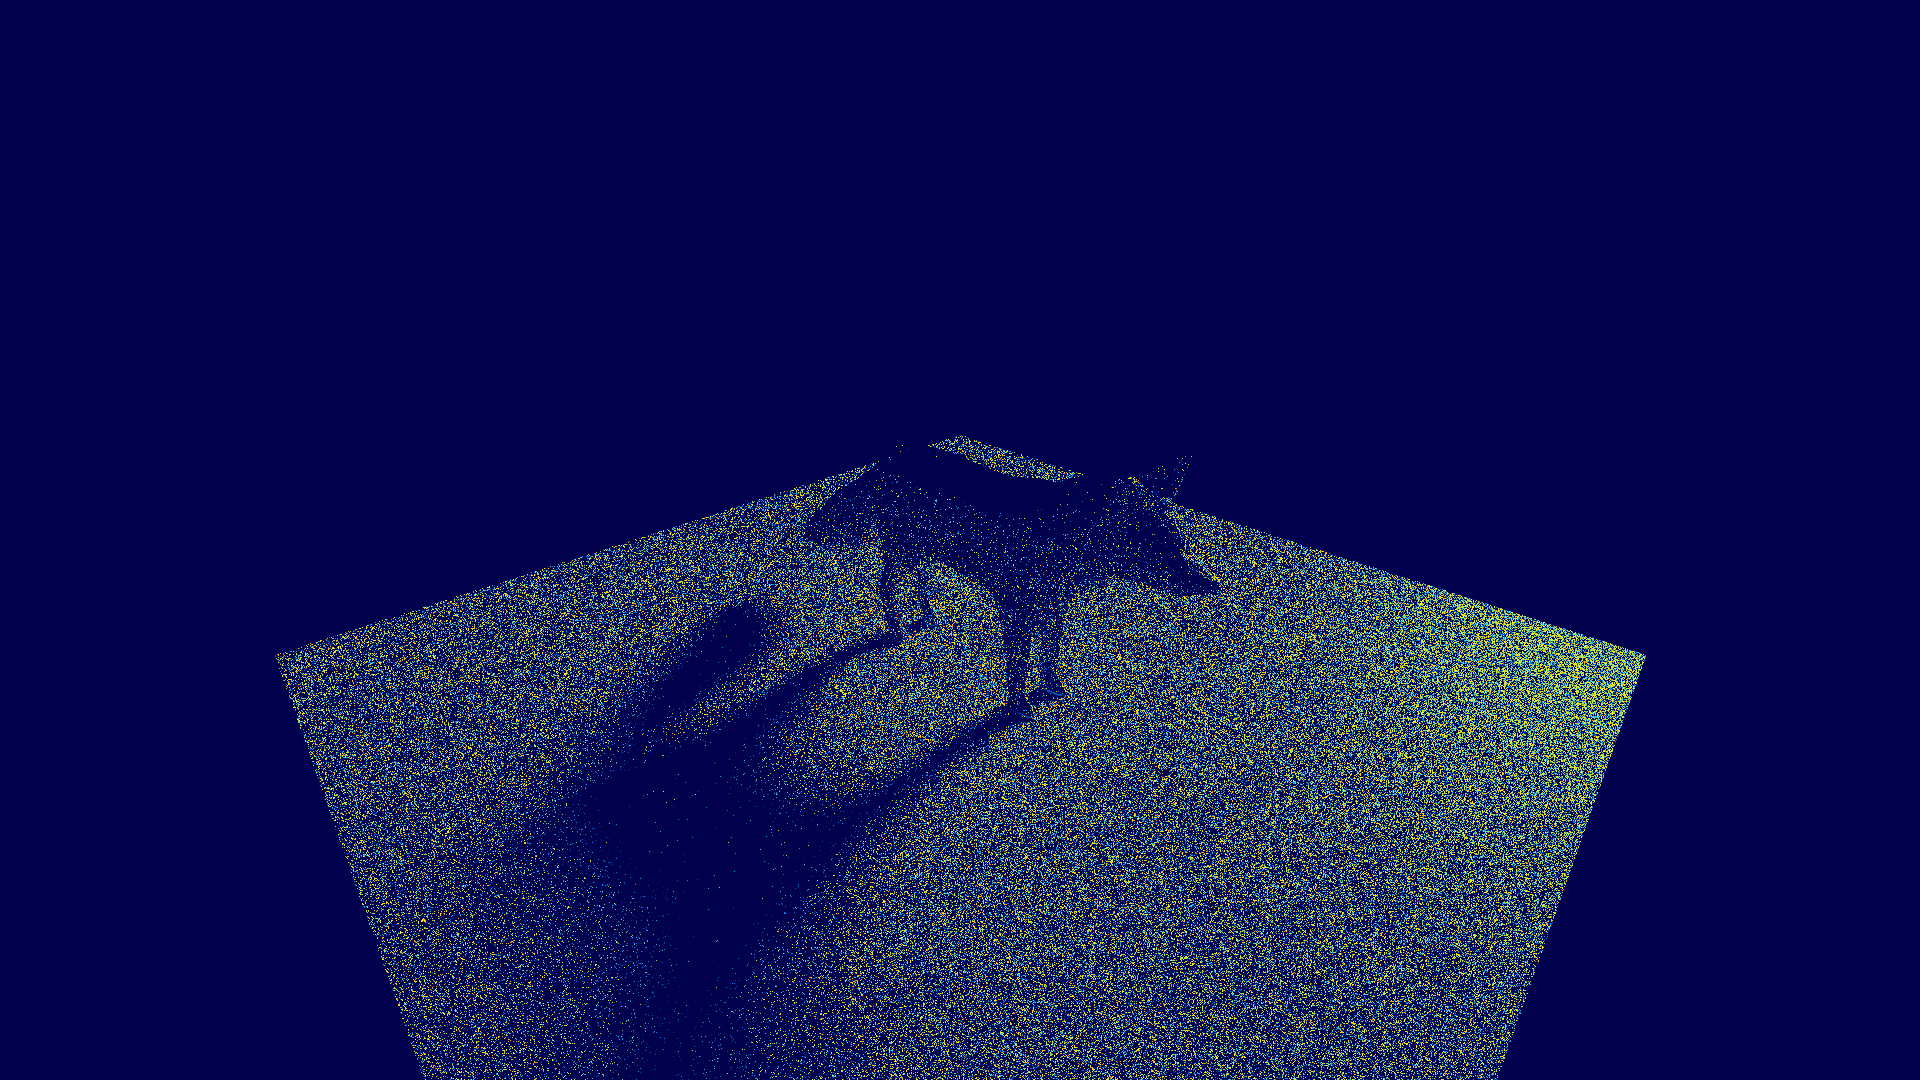
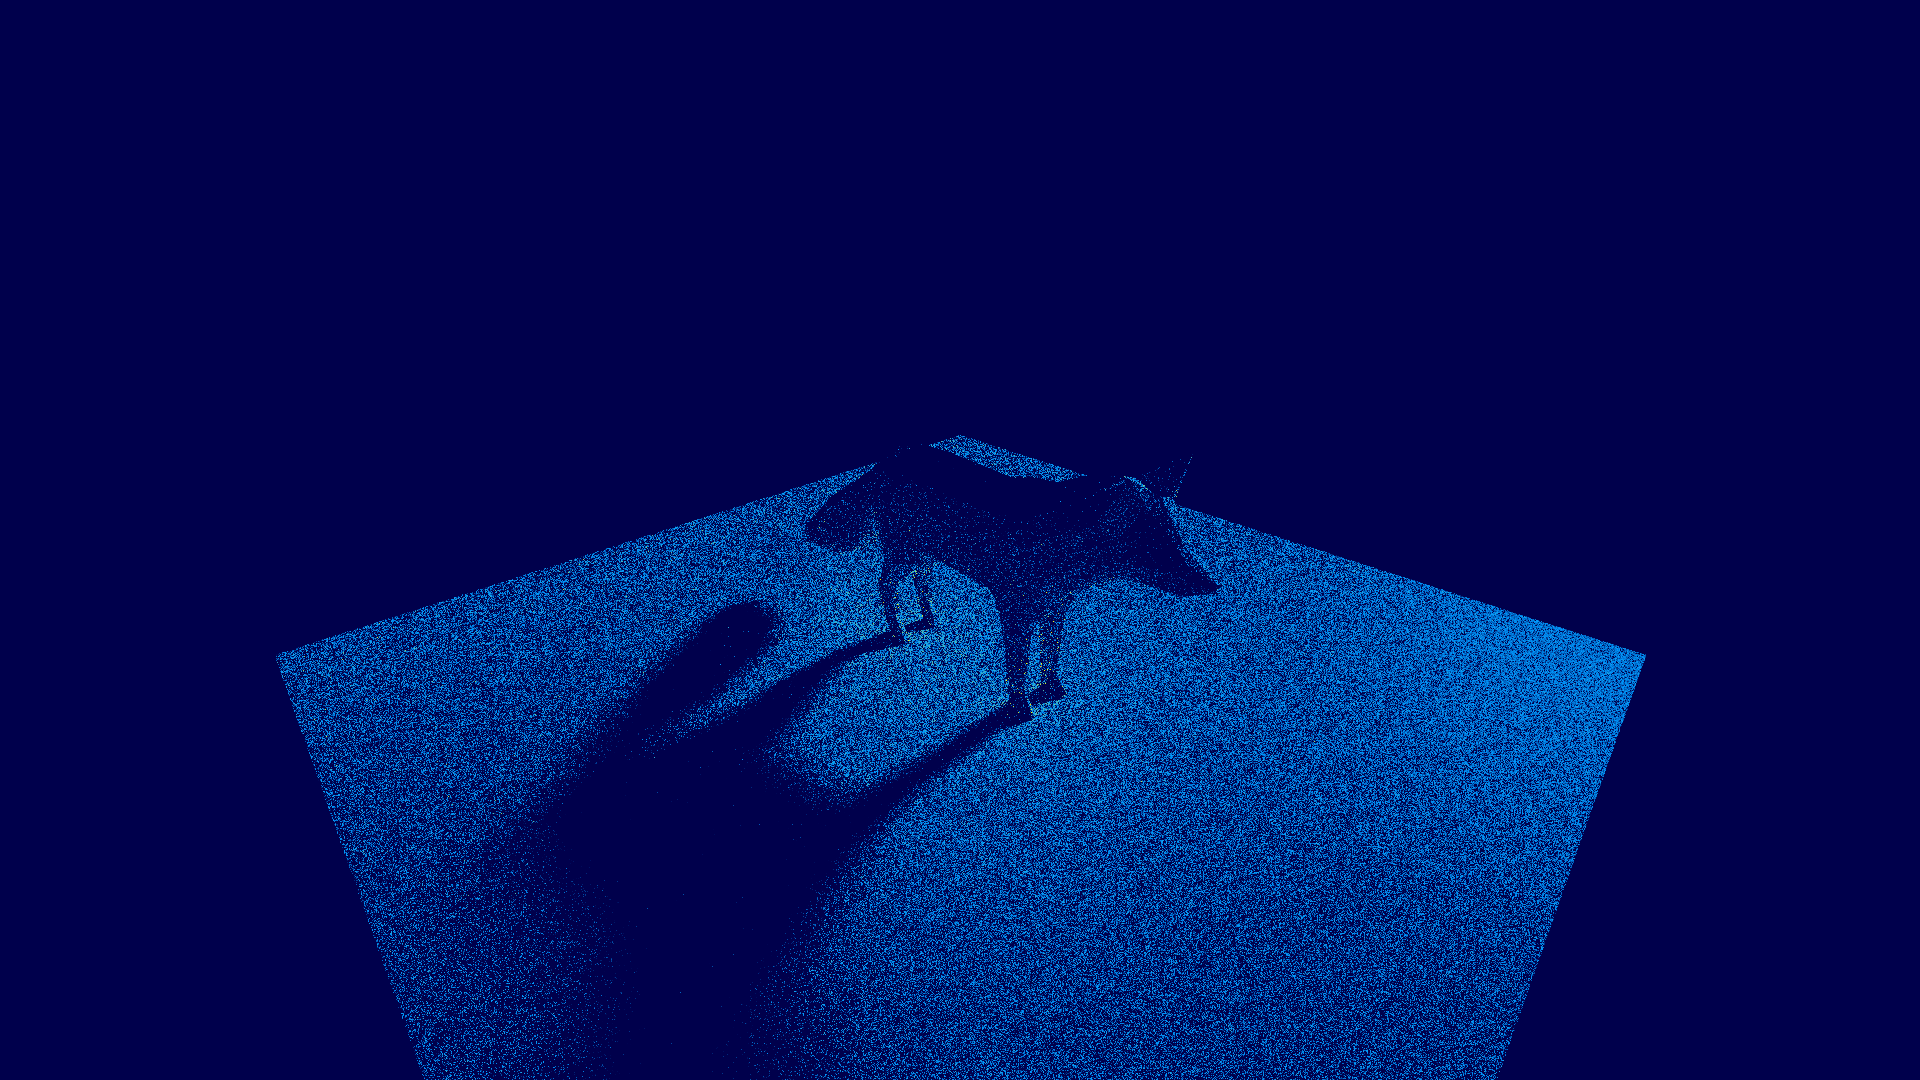
docs(renderer): render fox demo with more samples

Changed region(s): [[0.125, 0.4278, 0.875, 1.0], [0.4688, 0.3972, 0.5625, 0.4583]]

diff --git a/renderer/README.md b/renderer/README.md
@@ -19,7 +19,7 @@
 
 ---
 
-## Diagnostics
+## Diagnostics (1920x1080, 500 samples)
 
 <table>
   <tr>
